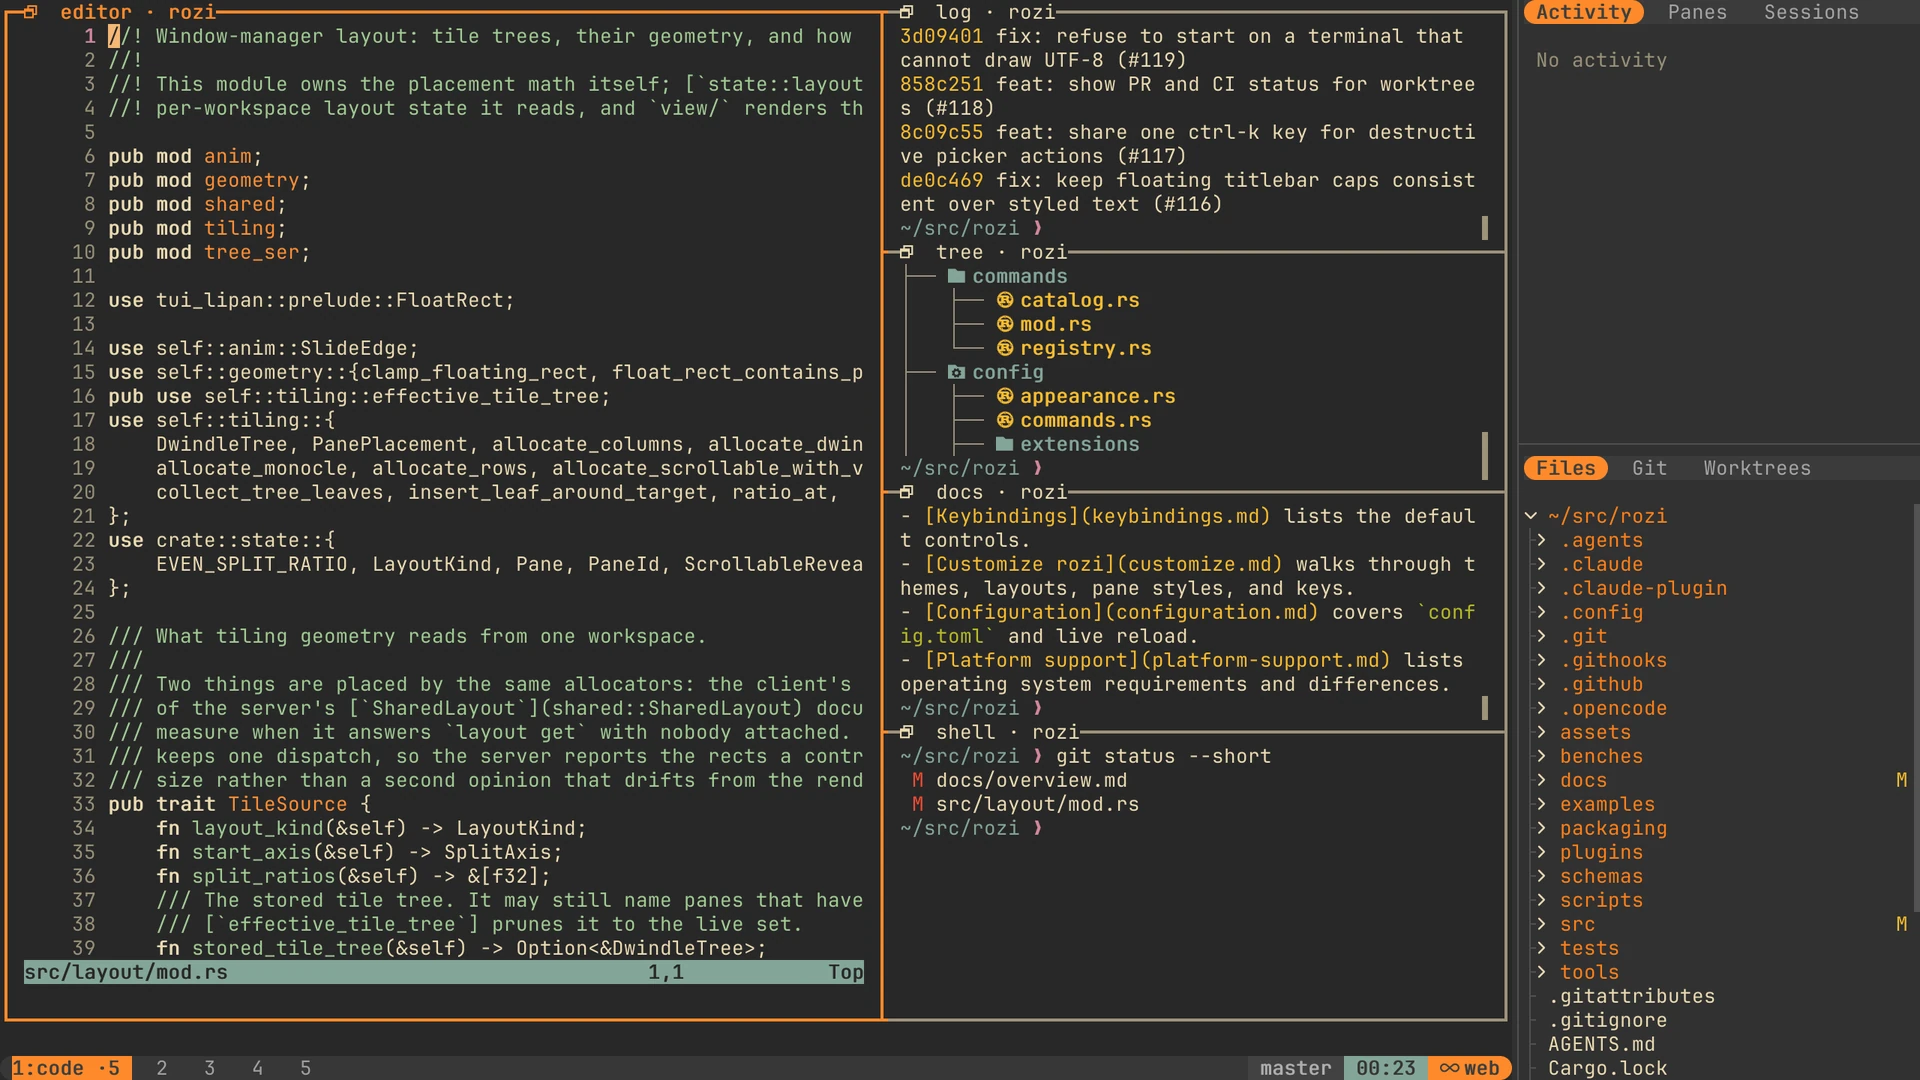
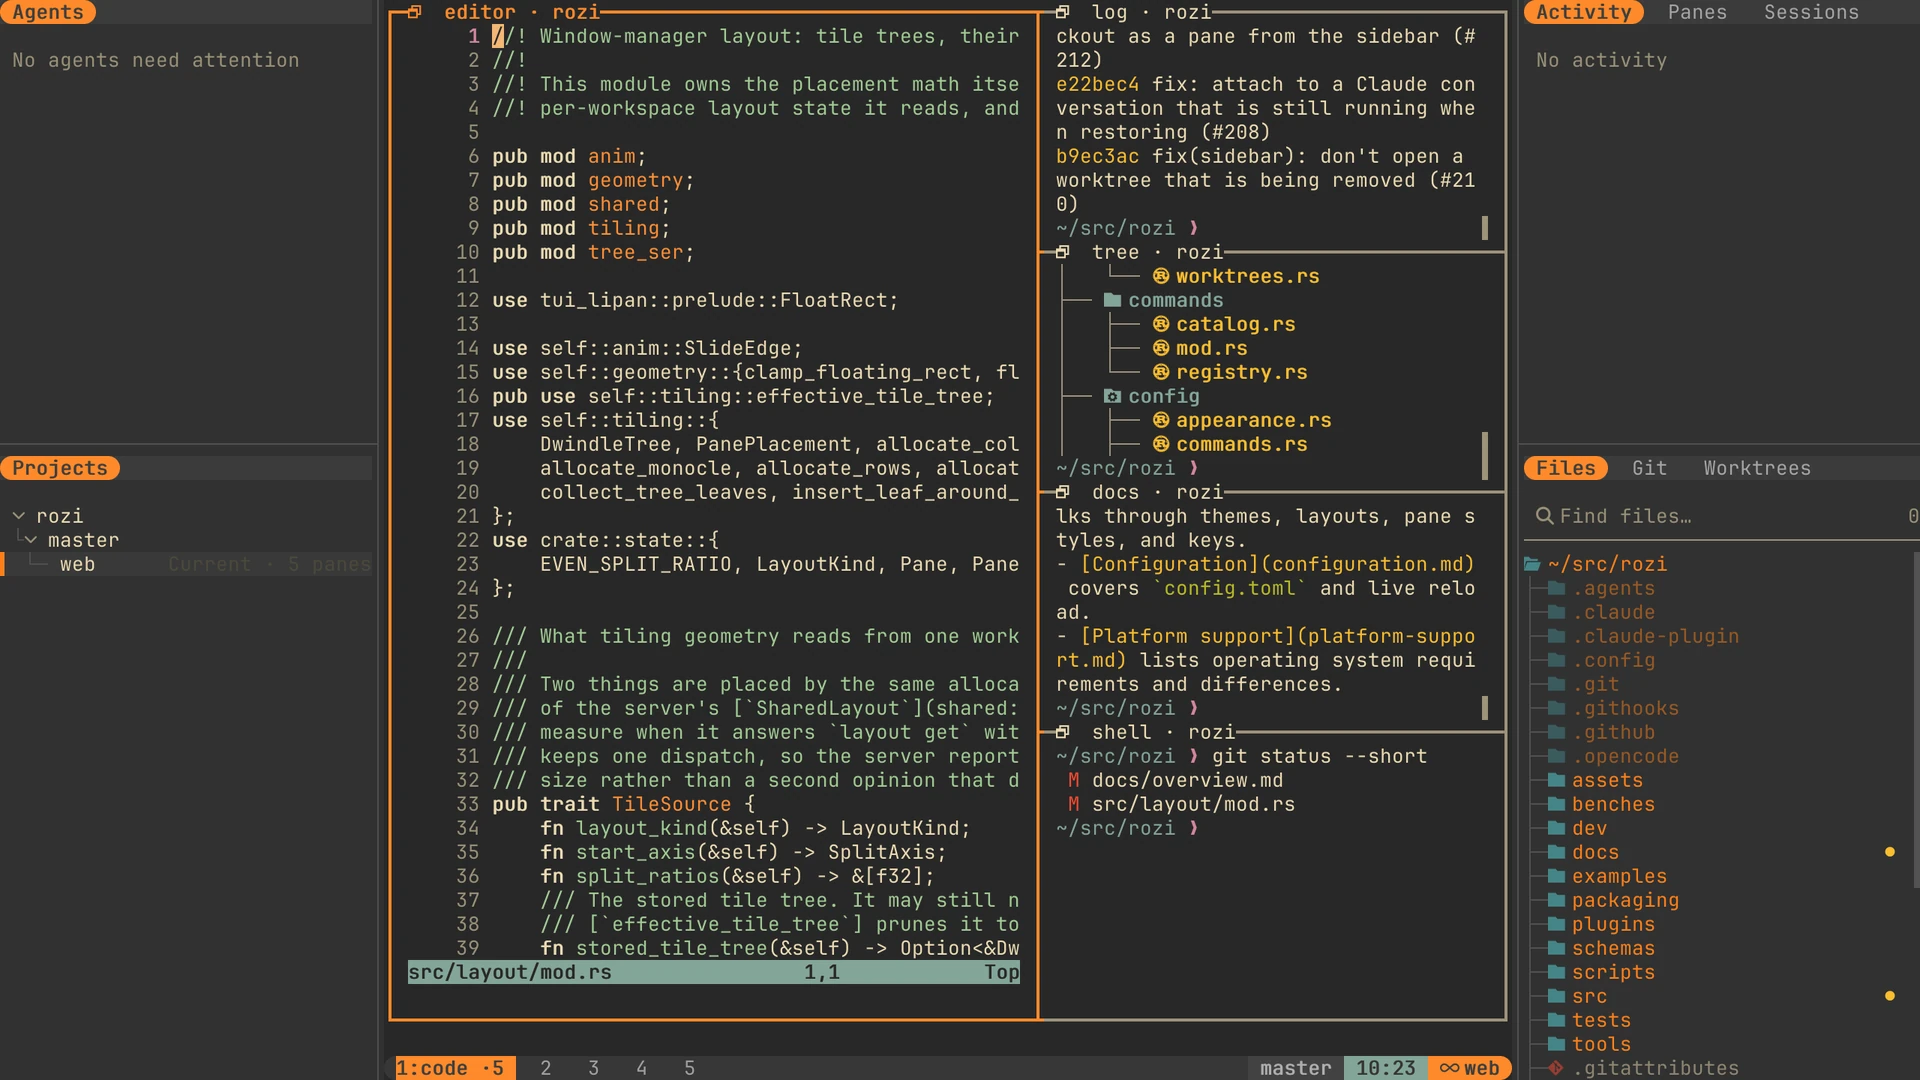
feat: show the Files search bar by default
Search is fast in large trees since tui-lipan 0.28.5, so the Files tab
shows its search bar unless turned off. Git keeps it off: it lists only
changed files.

diff --git a/src/config/sidebar.rs b/src/config/sidebar.rs
@@ -886,13 +886,13 @@ mod tests {
     #[test]
     fn a_builtin_tab_table_points_at_its_settings_table() {
         let (config, warnings) = parse(
-            r#"tabs = [{ name = "files", explorer = true }, { name = "panes", label = "Mine", command = "ls" }]"#,
+            r#"tabs = [{ name = "files", explorer = false }, { name = "panes", label = "Mine", command = "ls" }]"#,
         );
         assert_eq!(
             config.tabs.iter().map(SidebarTab::id).collect::<Vec<_>>(),
             [SidebarTabId::new("files"), SidebarTabId::new("panes")]
         );
-        assert!(!tree(&config, "files").explorer);
+        assert!(tree(&config, "files").explorer);
         assert!(
             warnings
                 .iter()
@@ -1061,7 +1061,7 @@ mod tests {
             tabs = ["files", "git"]
             [settings.files]
             show_hidden = false
-            explorer = true
+            explorer = false
             diff_stats = true
             max_entries = 50
             root = "repo"
@@ -1074,7 +1074,7 @@ mod tests {
         let files = tree(&config, "files");
         assert_eq!(files.root, SidebarTreeRoot::Repo);
         assert!(!files.show_hidden);
-        assert!(files.explorer && files.diff_stats);
+        assert!(!files.explorer && files.diff_stats);
         assert_eq!(files.max_entries, 50);
         assert_eq!(
             files.on_click,
@@ -1117,7 +1117,7 @@ mod tests {
         );
         assert_eq!(tree(&config, "files").root, SidebarTreeRoot::Cwd);
         assert_eq!(tree(&config, "files").max_entries, 1);
-        assert!(!tree(&config, "files").explorer);
+        assert!(tree(&config, "files").explorer);
         for expected in [
             "`elsewhere` is unknown",
             "max_entries` 0 is out of range; clamped to 1",

diff --git a/tests/suites/sidebar/sidebar_tab_settings_smoke.rs b/tests/suites/sidebar/sidebar_tab_settings_smoke.rs
@@ -140,12 +140,13 @@ fn a_tabs_settings_are_edited_from_sidebar_tabs_and_saved() {
             "{grid}"
         );
 
-        // A toggle flips on Enter.
-        b.send_key(key(KeyCode::Enter, KeyMods::NONE)).unwrap();
+        // A toggle flips on Enter. Files has its search bar on by default.
         assert!(files(&b).explorer);
+        b.send_key(key(KeyCode::Enter, KeyMods::NONE)).unwrap();
+        assert!(!files(&b).explorer);
         assert_eq!(
             saved_files_setting("explorer").and_then(|v| v.as_bool()),
-            Some(true)
+            Some(false)
         );
         assert!(b.state().tab_settings.is_some(), "the picker stays open");
 
@@ -219,7 +220,7 @@ fn a_tabs_settings_are_edited_from_sidebar_tabs_and_saved() {
         b.send_key(key(KeyCode::Char('r'), KeyMods::CTRL)).unwrap();
         assert_eq!(files(&b).max_entries, 2000);
         assert!(saved_files_setting("max_entries").is_none());
-        assert!(files(&b).explorer, "other settings are untouched");
+        assert!(!files(&b).explorer, "other settings are untouched");
 
         // Esc leads back to Sidebar tabs on the same row, then to Settings.
         b.send_key(key(KeyCode::Esc, KeyMods::NONE)).unwrap();

diff --git a/src/config/schema.rs b/src/config/schema.rs
@@ -1847,8 +1847,9 @@ pub struct SidebarTreeConfig {
 }
 
 impl SidebarTreeConfig {
-    /// Defaults per view: browsing wants the pane's directory and no change noise, while the
-    /// changes view is only useful repo-wide and with diff stats on.
+    /// Defaults per view: browsing wants the pane's directory, a search bar, and no change noise,
+    /// while the changes view is only useful repo-wide and with diff stats on, and lists too few
+    /// files to need searching.
     pub fn for_view(view: SidebarTreeView) -> Self {
         Self {
             root: match view {
@@ -1856,7 +1857,7 @@ impl SidebarTreeConfig {
                 SidebarTreeView::Changes => SidebarTreeRoot::Repo,
             },
             show_hidden: true,
-            explorer: false,
+            explorer: view == SidebarTreeView::Files,
             diff_stats: view == SidebarTreeView::Changes,
             compact_dirs: true,
             max_entries: 2_000,

diff --git a/docs/sidebar.md b/docs/sidebar.md
@@ -254,10 +254,12 @@ Hidden entries, whose names start with a dot, appear dimmed in Files and Git. Tu
 **Hidden files** setting to leave them out. Entries that Git ignores, such as a `target/` build
 directory and everything in it, are dimmed too.
 
-Turn on **Search bar** to filter the tree as you type. The tree shows the 1,000 closest matches, and
-when more entries match, the count beside the field reads like `1000/5321`. Files and Git also have
-**Root**, which browses the focused pane's directory or the whole repository containing it, **Line
-counts**, and **Entry limit**. See [Tab settings](#tab-settings).
+Type in the search bar above the Files tree to filter it. Git has a search bar too when you turn on
+its **Search bar** setting, and turning that setting off in Files hides the bar there. The tree
+shows the 1,000 closest matches, and when more entries match, the count beside the field reads like
+`1000/5321`. Files and Git also have **Root**, which browses the focused pane's directory or the
+whole repository containing it, **Line counts**, and **Entry limit**. See
+[Tab settings](#tab-settings).
 
 In a remote session, the listing comes from the remote host, and search covers only directories you
 have already expanded.

diff --git a/docs/configuration.md b/docs/configuration.md
@@ -668,14 +668,14 @@ of their own, `[sidebar.settings.<tab>]`. **Sidebar tabs…** edits the same tab
 worktrees = "repository"
 
 [sidebar.settings.files]
-explorer = true
+explorer = false
 show_hidden = false
 ```
 
 | Tab | Key | Type | Default | Constraints and behavior |
 | --- | --- | --- | --- | --- |
 | `activity` | `worktrees` | string | `"separate"` | `"separate"` or `"repository"`. See [Activity](sidebar.md#activity). |
-| `files`, `git` | `explorer` | bool | `false` | Shows a search field above the tree. |
+| `files`, `git` | `explorer` | bool | `true` for files, `false` for git | Shows a search field above the tree. |
 | `files`, `git` | `show_hidden` | bool | `true` | Lists entries whose names start with a dot. |
 | `files`, `git` | `root` | string | `"cwd"` for files, `"repo"` for git | `"cwd"` for the focused pane's directory, `"repo"` for the repository containing it. |
 | `files`, `git` | `diff_stats` | bool | `false` for files, `true` for git | Shows line-change counts beside Git marks. |
